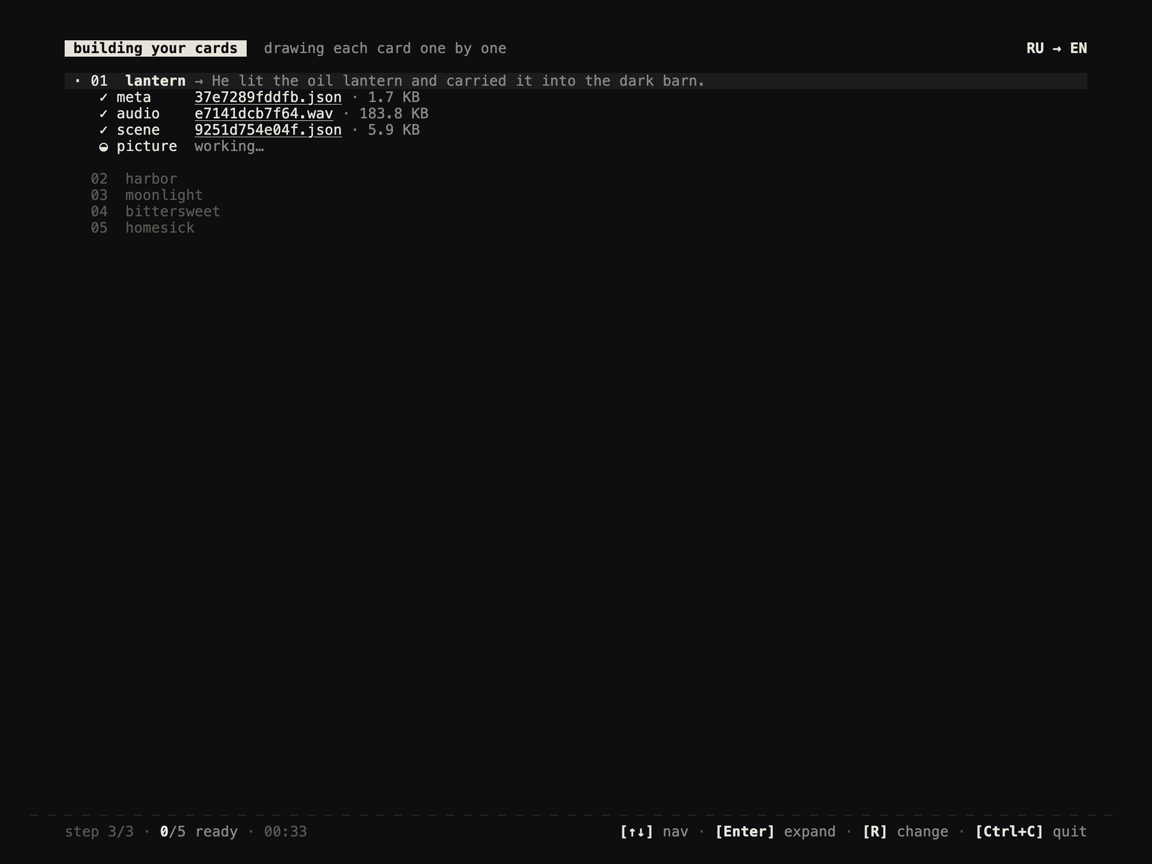
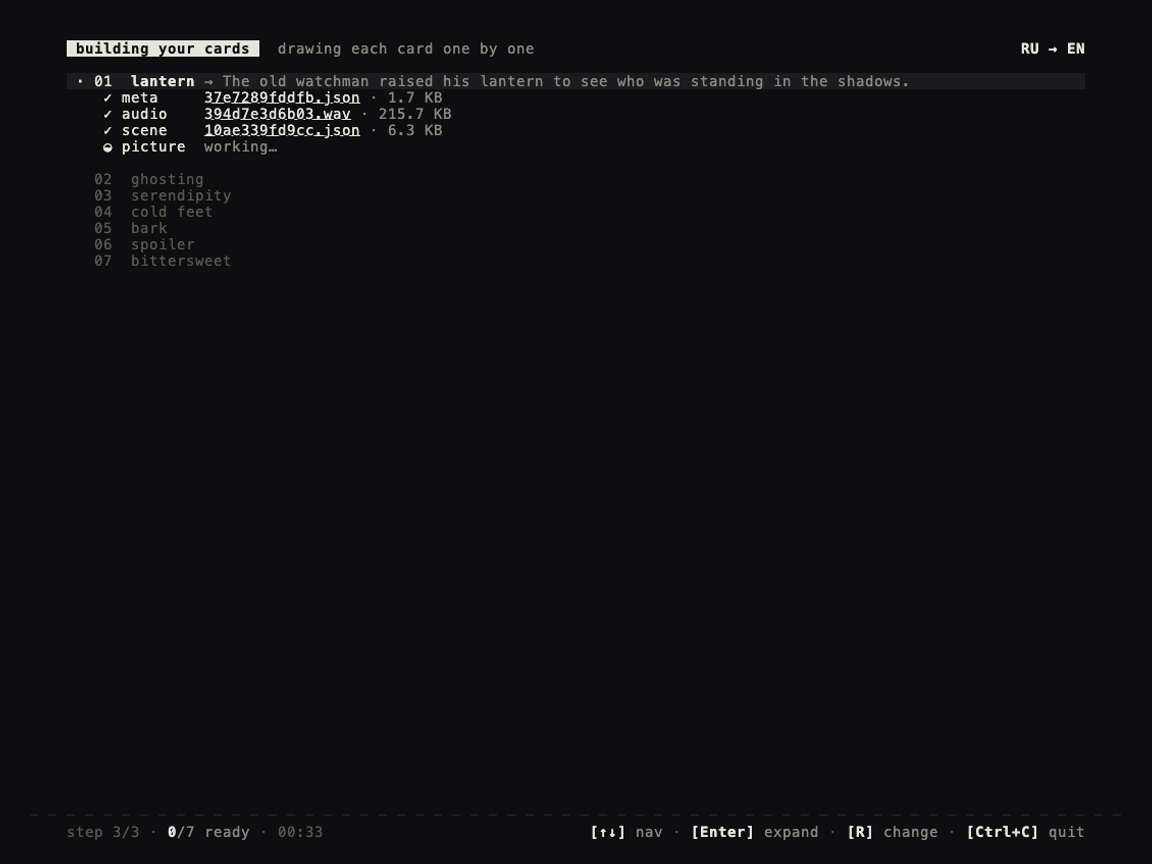
Re-record demo GIF with 7 mixed-register words and the correction loop
- 7 words across registers: lantern (neutral), ghosting (slang),
  serendipity (literary), cold feet (idiom), bark (polysemous —
  triggers the correction demo), spoiler (informal), bittersweet
- New flow segment: Down ×4 → R → ChangeSomething modal → "в значении
  кора дерева" → Enter → bulk correction → bark gloss flips from
  «лай» to «кора»
- Three new screen captures restored / added: 01c-busy-correction.png,
  02b-what-i-understood-corrected.png, 03-change-something-modal.png
- All seven candidate screenshots refreshed against the simplified
  WhatIUnderstood gloss prompt
- Variable-speed gif (~12 s, 657 KB): typing + busy preserved, real-time
  navigation + modal interaction + correction, generation compressed
- AGENTS.md recording recipe rewritten around scene-detect + per-section
  classification (workflow / read / indicator-wait / transition) so the
  pipeline survives flow changes without hard-coded timestamps

diff --git a/AGENTS.md b/AGENTS.md
@@ -136,49 +136,125 @@ From the repo root:
    `live/04-your-cards.png`, `live/04b-your-cards-mid.png`, `live/08-done.png`, and a raw
    `live/capture.gif` that is roughly two minutes long.
 
-5. **Post-process the gif** into the variable-speed README payload. The raw recording is
-   90 % static spinner frames; the README version compresses those and preserves the
-   typing animation:
+5. **Stash the raw recording** before any post-processing — keep it around as `/tmp/raw.gif`
+   so you can redo the slice/encode pass without re-running VHS. The raw is 1–5 min long and
+   ~1 MB; the README payload is built on top of it.
 
    ```bash
-   cp live/capture.gif /tmp/capture-original.gif
-   mkdir -p /tmp/seq && rm -f /tmp/seq/*.png
+   cp live/capture.gif /tmp/raw.gif
+   ```
+
+   Do NOT delete `/tmp/raw.gif` until you've reviewed the final gif and decided you don't
+   need another iteration.
+
+6. **Detect scene transitions** automatically — never assume the time windows from a previous
+   recording apply. Gemini latency varies wildly between runs (this session swung between
+   2 min and 7 min wall-clock).
+
+   ```bash
+   ffmpeg -i /tmp/raw.gif -vf "select='gt(scene,0.005)',showinfo" -f null - 2>&1 \
+     | awk '/pts_time/{gsub(/.*pts_time:/,"");print $1}' > /tmp/transitions.txt
+   cat /tmp/transitions.txt
+   ```
+
+   The `0.005` threshold catches the major TUI transitions (TUI screens change in only a
+   slice of cells per frame, so the default `0.3` returns 0 hits). The number of transitions
+   is **not fixed** — it grows when new states are added to the flow. Don't hardcode an
+   expected count.
+
+7. **Dump a frame at every transition** and eyeball them to map each one to a screen state.
+
+   ```bash
+   mkdir -p /tmp/cuts && rm -f /tmp/cuts/*.png
+   ffmpeg -y -ss 0 -i /tmp/raw.gif -frames:v 1 /tmp/cuts/cut-00.png
    i=1
-   # A: typing 0–1.7s at 25 fps (full animation)
-   ffmpeg -y -ss 0 -t 1.7 -i /tmp/capture-original.gif -vf "fps=25" /tmp/a-%03d.png
-   for f in /tmp/a-*.png; do cp "$f" /tmp/seq/$(printf %04d $i).png; i=$((i+1)); done
-   rm /tmp/a-*.png
-   # B: busy understanding 2–6s at 12.5 fps (spinner stays animated, half the frames)
-   ffmpeg -y -ss 2 -t 4 -i /tmp/capture-original.gif -vf "fps=12.5" /tmp/b-%03d.png
-   for f in /tmp/b-*.png; do cp "$f" /tmp/seq/$(printf %04d $i).png; i=$((i+1)); done
-   rm /tmp/b-*.png
-   # C: WhatIUnderstood static splice for 1.2s (30 frames)
-   ffmpeg -y -i live/02-what-i-understood.png -pix_fmt rgba /tmp/what-rgba.png
-   for k in $(seq 1 30); do cp /tmp/what-rgba.png /tmp/seq/$(printf %04d $i).png; i=$((i+1)); done
-   # D: generation 6.5–121s sampled at 0.66 fps (~75 frames in 3s of output)
-   ffmpeg -y -ss 6.5 -t 114 -i /tmp/capture-original.gif -vf "fps=0.66" /tmp/d-%03d.png
-   for f in /tmp/d-*.png; do cp "$f" /tmp/seq/$(printf %04d $i).png; i=$((i+1)); done
-   rm /tmp/d-*.png
-   # E: done state 121–122s at 25 fps (full speed, shows panel cleanly)
-   ffmpeg -y -ss 121 -t 1 -i /tmp/capture-original.gif -vf "fps=25" /tmp/e-%03d.png
-   for f in /tmp/e-*.png; do cp "$f" /tmp/seq/$(printf %04d $i).png; i=$((i+1)); done
-   rm /tmp/e-*.png
-   # Encode with palette for size
-   ffmpeg -y -framerate 25 -i /tmp/seq/%04d.png -filter_complex "[0:v]palettegen=max_colors=64[p]" -map "[p]" /tmp/palette.png
-   ffmpeg -y -framerate 25 -i /tmp/seq/%04d.png -i /tmp/palette.png -filter_complex "[0:v][1:v]paletteuse" -loop 0 live/capture.gif
-   rm -rf /tmp/seq /tmp/palette.png /tmp/what-rgba.png /tmp/capture-original.gif
+   while read t; do
+     ffmpeg -y -ss "$t" -i /tmp/raw.gif -frames:v 1 /tmp/cuts/cut-$(printf %02d $i)-t${t}.png
+     i=$((i+1))
+   done < /tmp/transitions.txt
+   open /tmp/cuts
    ```
 
-   Final gif is ~9 s, ~400 KB at 1152×864.
+8. **Classify each section** between consecutive transitions:
 
-6. **Revert the chord patch** before staging anything:
+   | Type | Signal | Sampling for the gif |
+   | --- | --- | --- |
+   | **workflow** | user-driven step or new content (typing, candidates land, Done lands) | `fps=25` on the section's natural window; preserve real-time animation |
+   | **read** | a state that's only briefly visible in the recording but the viewer needs time to read (e.g. WhatIUnderstood gets click-through via `Shift+Enter` after ~1 s) | static splice from the matching `live/NN-…png` for 2–3 s — duplicate frames; do NOT use the raw window |
+   | **indicator-wait** | spinner / progress bar; visually static minus the rotating indicator (Gemini text pass, generation queue) | compress aggressively. `fps = output_frames / source_duration`. Budget 1–2 s output total no matter how long the source is |
+   | **transition** | a fast cross-fade between two states, < 1 s | usually skipped or rolled into the neighbouring section |
 
-   ```bash
-   git restore src/tui/input.rs
+   For the standard kamishibai flow the typical mapping is:
+   - `0s → first_busy`: A typing (workflow, 1.5 s output)
+   - `first_busy → candidates_appear`: B busy understanding (indicator-wait, 1.2 s output)
+   - candidates window: C `02-what-i-understood.png` static splice (read, 2.5 s output)
+   - `building_starts → all_done`: D generation (indicator-wait, 1.5–2 s output)
+   - `all_done → end`: E done (workflow, 1 s output)
+
+   New states (e.g. an extra confirmation step, a style picker) will surface as additional
+   transitions — slot them into a type by inspecting the cut frame, don't drop them.
+
+9. **Propose the slice plan to the operator** — print a table with section type, source
+   window, sample rate, and projected output duration **before** running ffmpeg. Get the
+   green light, then encode. Sample sketch:
+
+   ```
+   Section          Type             Source           fps         Output
+   A typing         workflow         1.0 → 2.5 s      25          1.5 s   (38 frames)
+   B busy           indicator-wait   2.56 → 3.76 s    25          1.2 s   (30 frames)
+   C candidates     read (splice)    static PNG       —           2.5 s   (62 frames)
+   D generation    indicator-wait   11 → 405 s       0.114       1.8 s   (45 frames)
+   E done           workflow         404.76 → 405.76  25          1.0 s   (25 frames)
+   Total                                                          8.0 s   (200 frames)
    ```
 
-7. **Confirm** with `git diff src/tui/input.rs` (must be empty) and `git status` (only the
-   regenerated assets should be staged).
+10. **Encode** once the plan is approved:
+
+    ```bash
+    mkdir -p /tmp/seq && rm -f /tmp/seq/*.png
+    i=1
+    # Repeat per section: ffmpeg -ss <start> -t <dur> -i /tmp/raw.gif -vf "fps=<rate>" /tmp/x-%03d.png
+    # then: for f in /tmp/x-*.png; do cp "$f" /tmp/seq/$(printf %04d $i).png; i=$((i+1)); done
+    # For static splices: cp the chosen live/NN-…png N times into /tmp/seq/
+
+    ffmpeg -y -framerate 25 -i /tmp/seq/%04d.png \
+      -filter_complex "[0:v]palettegen=max_colors=64[p]" -map "[p]" /tmp/palette.png
+    ffmpeg -y -framerate 25 -i /tmp/seq/%04d.png -i /tmp/palette.png \
+      -filter_complex "[0:v][1:v]paletteuse" -loop 0 live/capture.gif
+
+    rm -rf /tmp/seq /tmp/palette.png /tmp/cuts /tmp/transitions.txt
+    ```
+
+    Final gif is ~8–10 s, ~300–500 KB at 1152×864. `/tmp/raw.gif` stays on disk for the next
+    iteration.
+
+### Common pitfalls — read before recording
+
+- **Never sample a spinner section below 25 fps.** Each source frame represents N × 40 ms
+  of real rotation; if N > 1, the spinner appears N × faster in the output. Keep the source
+  fps high (25) and shorten the window instead.
+- **Never treat WhatIUnderstood (or any other click-through state) as a workflow section.**
+  Submit fires immediately after candidates land, so the raw recording shows it for ~1.5 s.
+  Use the screenshot as a static splice for 2–3 s so the glosses are readable.
+- **Never carry over hardcoded section windows from a prior recording.** Gemini latency
+  varies. Run scene-detect first.
+- **Never count transitions in advance.** New states get added to the flow over time —
+  scene-detect surfaces them automatically; classify by inspecting `cut-NN.png`, don't drop
+  unknown sections.
+- **Never delete `/tmp/raw.gif` until you've decided you don't need another slice pass.**
+  Re-recording costs a few minutes of Gemini wall-clock; re-slicing is seconds.
+- **Don't try to "fix" an already-post-processed gif by duplicating its frames.** A
+  derivative gif has already lost spinner sampling fidelity; you have to go back to the raw.
+
+11. **Revert the chord patch** before staging anything:
+
+    ```bash
+    git restore src/tui/input.rs
+    ```
+
+12. **Confirm** with `git diff src/tui/input.rs` (must be empty) and `git status` (only the
+    regenerated assets should be staged). Once you're sure you don't need another slice pass,
+    `rm /tmp/raw.gif`.
 
 ### Demo input
 
